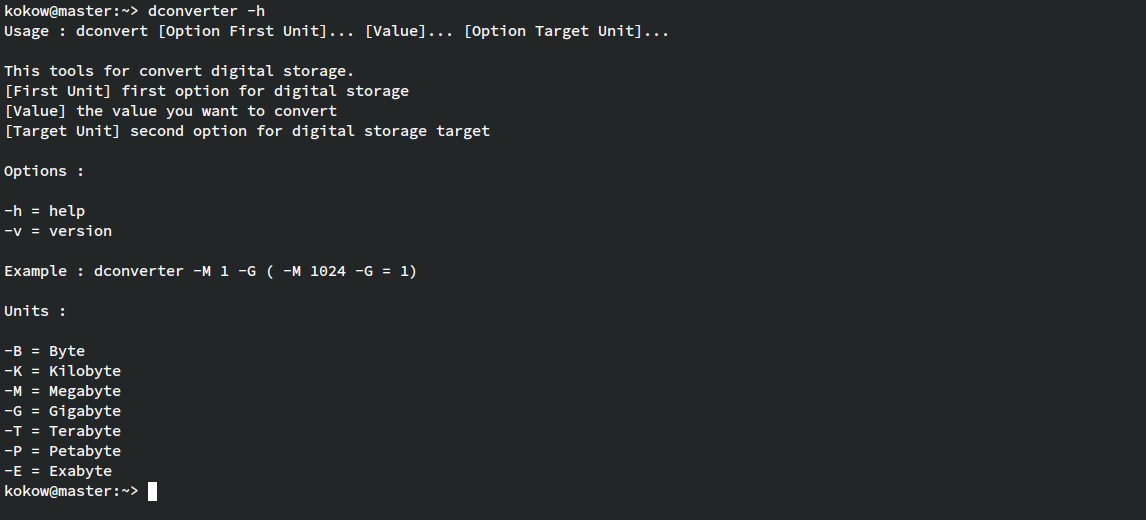
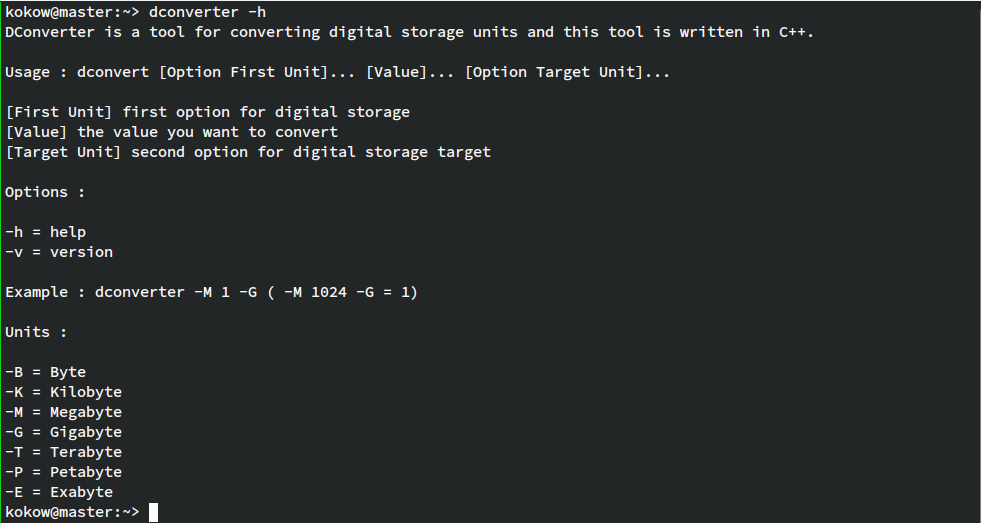
Change : Change help() function

Changed region(s): [[0.0, 0.1231, 0.5199, 1.0], [0.0, 0.0, 0.8257, 0.0923], [0.367, 0.1231, 0.6728, 0.1538]]

diff --git a/dconverter.cpp b/dconverter.cpp
@@ -5,11 +5,11 @@
 #include <iomanip>
 
 void help() {
+		std::cout << "DConverter is a tool for converting digital storage units and this tool is written in C++.\n\n";
 		std::cout << "Usage : dconvert [Option First Unit]... [Value]... [Option Target Unit]...\n\n";
-		std::cout << "This tools for convert digital storage.\n";
-		std::cout << "[First Unit] first option for digital storage\n";
+		std::cout << "[First Unit] source unit\n";
 		std::cout << "[Value] the value you want to convert\n";
-		std::cout << "[Target Unit] second option for digital storage target\n\n";
+		std::cout << "[Target Unit] target unit\n\n";
 		std::cout << "Options : \n\n";
 		std::cout << "-h = help\n";
 		std::cout << "-v = version\n\n";
